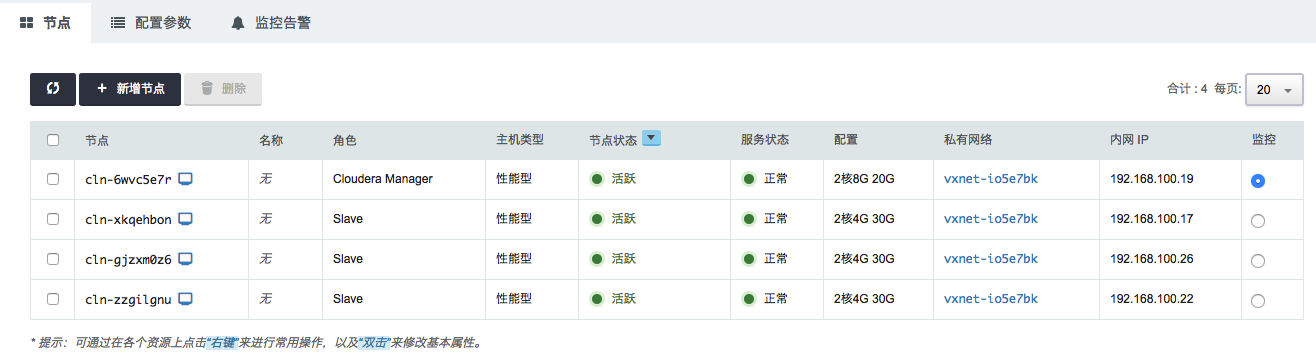
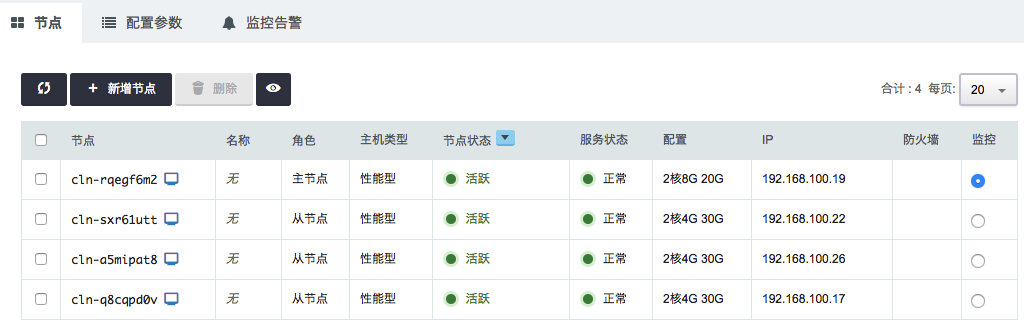
add scale horizontally guide

diff --git a/docs/CDH/README.md b/docs/CDH/README.md
@@ -70,7 +70,7 @@ CDH(*Cloudera's Distribution Including Apache Hadoop*)是Cloudera公司的Hadoop
 
 ## CDH安装部署
 
-### 登录Cloudera Manager
+### 1. 登录Cloudera Manager
 
 集群创建成功后，Cloudera Manager服务将会部署到主节点中，待各节点服务状态均变为正常后，即可通过访问 `http://<主节点ip>:7180` 开始部署CDH组件到整个集群。
 
@@ -80,25 +80,25 @@ CDH(*Cloudera's Distribution Including Apache Hadoop*)是Cloudera公司的Hadoop
 
 
 
-### 接受许可条款和条件
+### 2. 接受许可条款和条件
 
 ![条款](../../images/CDH/agreement.png)
 
 
 
-### 选择版本
+### 3. 选择版本
 
 ![版本](../../images/CDH/version.png)
 
 
 
-### 安装组件列表
+### 4. 安装组件列表
 
 ![组件](../../images/CDH/component_list.png)
 
 
 
-### 指定安装主机
+### 5. 指定安装主机
 
 输入创建好集群的各节点ip，点击搜索列出需要安装CDH的主机列表并全部选中
 
@@ -106,7 +106,7 @@ CDH(*Cloudera's Distribution Including Apache Hadoop*)是Cloudera公司的Hadoop
 
 
 
-### 选择配置安装包
+### 6. 选择配置安装包
 
 - 选择默认安装方法为`「使用Parcel」`
 
@@ -151,13 +151,13 @@ http://192.168.100.19/sqoop/sqoop-connectors/
 
 
 
-### JDK安装
+### 7. JDK安装
 
 ![JDK安装](../../images/CDH/jdk.png)
 
 
 
-### 单用户模式
+### 8. 单用户模式
 
 <font color=red>不要选择</font>「单用户模式」，直接点击继续：
 
@@ -165,7 +165,7 @@ http://192.168.100.19/sqoop/sqoop-connectors/
 
 
 
-### 安装身份验证
+### 9. 安装身份验证
 
 - 选择以root用户「登录到所有主机」
 - 选择身份验证方法为「所有主机接受相同密码」
@@ -176,7 +176,7 @@ http://192.168.100.19/sqoop/sqoop-connectors/
 
 
 
-### 集群安装
+### 10. Cloudera Agent 安装
 
 - 开始 Cloudera Manager Agent 安装
 
@@ -186,31 +186,31 @@ http://192.168.100.19/sqoop/sqoop-connectors/
 
 ![集群安装](../../images/CDH/install2.png)
 
-- 组件安装包分发与激活
-
-  ![集群安装](../../images/CDH/install3.png)
-
-      组件安装包激活后点击继续
-
-  ![集群安装](../../images/CDH/install4.png)
-
-- 安装环境检查
-
-  ![集群安装](../../images/CDH/pre_check.png)
 
 
+### 11. 组件安装包分发与激活
 
-- 全部可安装组件列表
+![集群安装](../../images/CDH/install3.png)
 
-  ![集群安装](../../images/CDH/list.png)
+    组件安装包激活后点击继续
 
-  
+![集群安装](../../images/CDH/install4.png)
 
-  ![集群安装](../../images/CDH/list2.png)
+### 12. 安装环境检查及可安装组件列表
+
+![集群安装](../../images/CDH/pre_check.png)
 
 
 
-### 选择需要安装的服务
+![集群安装](../../images/CDH/list.png)
+
+
+
+![集群安装](../../images/CDH/list2.png)
+
+
+
+### 13. 选择需要安装的服务
 
 > Impala和Solr没有与CentOS 7.3相兼容的版本，因此预定义或自定义安装不能选择包含Impala或Solr的组合
 
@@ -226,7 +226,7 @@ http://192.168.100.19/sqoop/sqoop-connectors/
 
 
 
-### 自定义角色分配
+### 14. 自定义角色分配
 
 选择好服务组合，点击下一步将进入角色分配页面。
 
@@ -240,7 +240,7 @@ http://192.168.100.19/sqoop/sqoop-connectors/
 
   ![集群安装](../../images/CDH/host_select.png)
 
-### 数据库设置
+### 15. 数据库设置
 
 为服务选定主机后，点击下一步将进入数据库设置页面。
 
@@ -250,7 +250,7 @@ http://192.168.100.19/sqoop/sqoop-connectors/
 
 
 
-### 集群服务配置
+### 16. 集群服务自定义配置
 
 数据库配置完成后将进入服务参数配置页面，用户基本不需要改动任何配置。
 
@@ -262,13 +262,13 @@ http://192.168.100.19/sqoop/sqoop-connectors/
 
 
 
-### 服务安装
+### 17. 服务安装
 
 ![集群安装](../../images/CDH/service_install.png)
 
 
 
-### 安装完成
+### 18. 安装完成
 
 ![集群安装](../../images/CDH/install_complete.png)
 
@@ -284,33 +284,208 @@ http://192.168.100.19/sqoop/sqoop-connectors/
 
 ![集群安装](../../images/CDH/cm-yarn.png)
 
+
+
 ## 在线伸缩
 
 ### 增加节点
+
+CDH on QingCloud 中主节点唯一，用户可以增加从节点。
+
+增加从节点需要如下几步：
+
+- 添加从节点到 CDH on QingCloud 集群中
+
+- 在 Cloudera Manager 里将该新增节点加入 CDH 集群以被 Cloudera Manager 管理
+
+- 创建从节点的主机模版，将需要部署在从节点的角色加入该模版
+
+- 在新加入的从节点主机上应用从节点模版，以部署从节点角色到该主机
+
+- 重启过期服务使新配置生效
+
+  
+
+下面将逐一演示每一步：
+
+- 添加从节点到 CDH on QingCloud 集群中
+
+  待新添加节点的「服务状态」变为正常后，继续下一步
+
+  > 节点IP需要手动指定
+
+![增加节点](../../images/CDH/add_node1.png)
+
+
+
+- 在 Cloudera Manager 里将该新增节点加入 CDH 集群以被 Cloudera Manager 管理
+
+  进入 Cloudera Manager 的主机->所有主机页面，点击添加新主机
+
+![增加节点](../../images/CDH/add_node2.png)
+
+
+
+	然后按如下图示输入新增节点IP，密码等配置，依次点「继续」直至完成：
+
+
+
+![增加节点](../../images/CDH/add_node3.png)
+
+
+
+![增加节点](../../images/CDH/add_node3.png)
+
+![增加节点](../../images/CDH/add_node4.png)
+
+![增加节点](../../images/CDH/add_node5.png)
+
+![增加节点](../../images/CDH/add_node6.png)
+
+![增加节点](../../images/CDH/add_node7.png)
+
+![增加节点](../../images/CDH/add_node8.png)
+
+![增加节点](../../images/CDH/add_node9.png)
+
+![增加节点](../../images/CDH/add_node10.png)
+
+![增加节点](../../images/CDH/add_node11.png)
+
+
+
+![增加节点](../../images/CDH/add_node12.png)
+
+- 创建从节点的主机模版，将需要部署在从节点的角色加入该模版
+
+![增加节点](../../images/CDH/create_template1.png)
+
+![增加节点](../../images/CDH/create_template2.png)
+
+
+
+- 在新加入的从节点主机上应用从节点模版，以部署从节点角色到该主机
+
+![增加节点](../../images/CDH/add_node13.png)
+
+![增加节点](../../images/CDH/add_node14.png)
+
+![增加节点](../../images/CDH/add_node15.png)
+
+- 重启过期服务使新配置生效
+
+  添加节点后，Cloudera Manager 会显示如下「过期配置：需要重新部署客户端配置」的提示，点击该信息将进入过期配置页面
+
+![增加节点](../../images/CDH/add_node16.png)
+
+
+
+	点击过期配置页面的「重启过时服务」，将会重启相关服务使新配置生效
+
+![增加节点](../../images/CDH/restart_outdated1.png)
+
+![增加节点](../../images/CDH/restart_outdated2.png)
 
 
 
 ### 删除节点
 
+CDH on QingCloud 中主节点唯一且不可删除，从节点最少为3个
 
+删除从节点需要如下几步：
+
+- 确保待删除从节点上的数据和服务已经妥善处理，删除该节点不会导致数据丢失
+
+- 在 Cloudera Manager 里将该从节点从 CDH 集群删除
+
+- 将该从节点从 Cloudera Manager 删除
+
+- 重启过期服务使新配置生效
+
+- 将配置参数里的「允许横向缩容」设置为 true 
+
+- 将该节点从 CDH on QingCloud 集群删除
+
+- 将配置参数里的「允许横向缩容」设置为 false 
+
+  
+
+下面将逐一演示有关步骤：
+
+- 确保待删除从节点上的数据和服务已经妥善处理，删除该节点不会导致数据丢失
+
+
+- 在 Cloudera Manager 里将该从节点从 CDH 集群删除
+
+![增加节点](../../images/CDH/delete_node1.png)
+
+![增加节点](../../images/CDH/delete_node2.png)
+
+![增加节点](../../images/CDH/delete_node3.png)
+
+- 将该从节点从 Cloudera Manager 删除
+
+![增加节点](../../images/CDH/delete_node4.png)
+
+	如下所示，执行该步前需要登录该节点停止 Cloudera agent 服务后点击确认：
+
+```shell
+service cloudera-scm-agent stop
+```
+
+
+
+![增加节点](../../images/CDH/delete_node6.png)
+
+- 重启过期服务使新配置生效
+
+> 参考增加节点相关步骤
+
+- 将配置参数里的「允许横向缩容」设置为 true 
+- 将该节点从 CDH on QingCloud 集群删除
+
+
+
+![增加节点](../../images/CDH/delete_node7.png)
+
+
+
+- 将配置参数里的「允许横向缩容」设置为 false 
+
+  
 
 ### 纵向伸缩
 
 CDH允许分别对各种角色的节点进行纵向的扩容及缩容。
+
+> 扩容或者缩容后，Cloudera Manager 服务及 Service/Host Monitor 服务需要一点时间重新启动，在此期间它的服务暂不可访问或不正常
+
+
+
+![增加节点](../../images/CDH/scale_vertically1.png)
+
+
+
+![增加节点](../../images/CDH/scale_vertically2.png)
+
 
 
 ## 监控告警
 
 ### 资源级别的监控与告警
 
-我们对CDH集群的每个节点提供了资源级别的监控和告警服务，包括 CPU 使用率、内存使用率、硬盘使用率等。
+对 CDH 集群的每个节点提供了资源级别的监控和告警服务，包括 CPU 使用率、内存使用率、硬盘使用率等。
+
+
+
+![增加节点](../../images/CDH/monitor.png)
+
+![增加节点](../../images/CDH/alarm.png)
+
+
 
 ## 配置参数
 
-
-
-### 修改配置参数
-
-在 CDH 详情页，点击 `配置参数` Tab 页，点击 `修改属性`，修改完后，需要进行 "保存"。如图所示：
+![更改配置参数](../../images/CDH/change_env.png)
 
 
